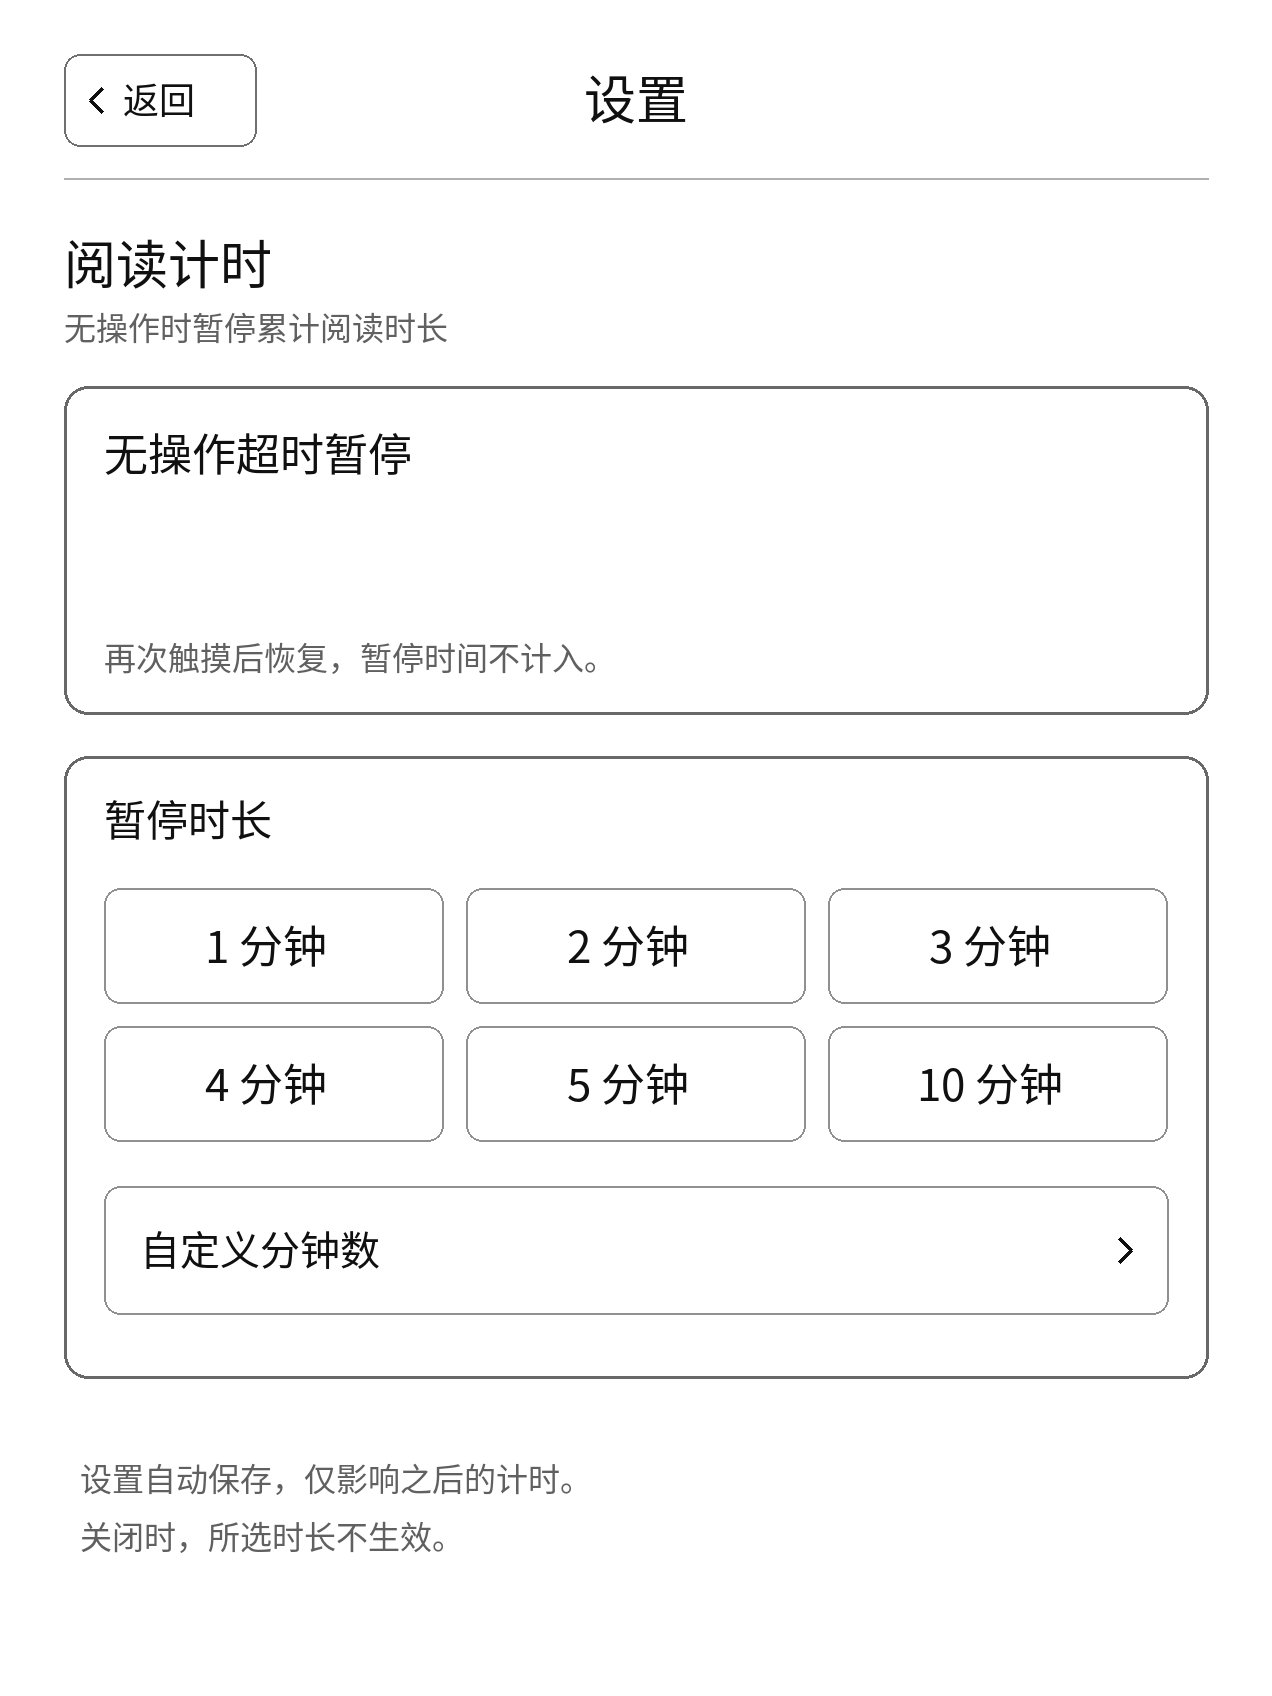
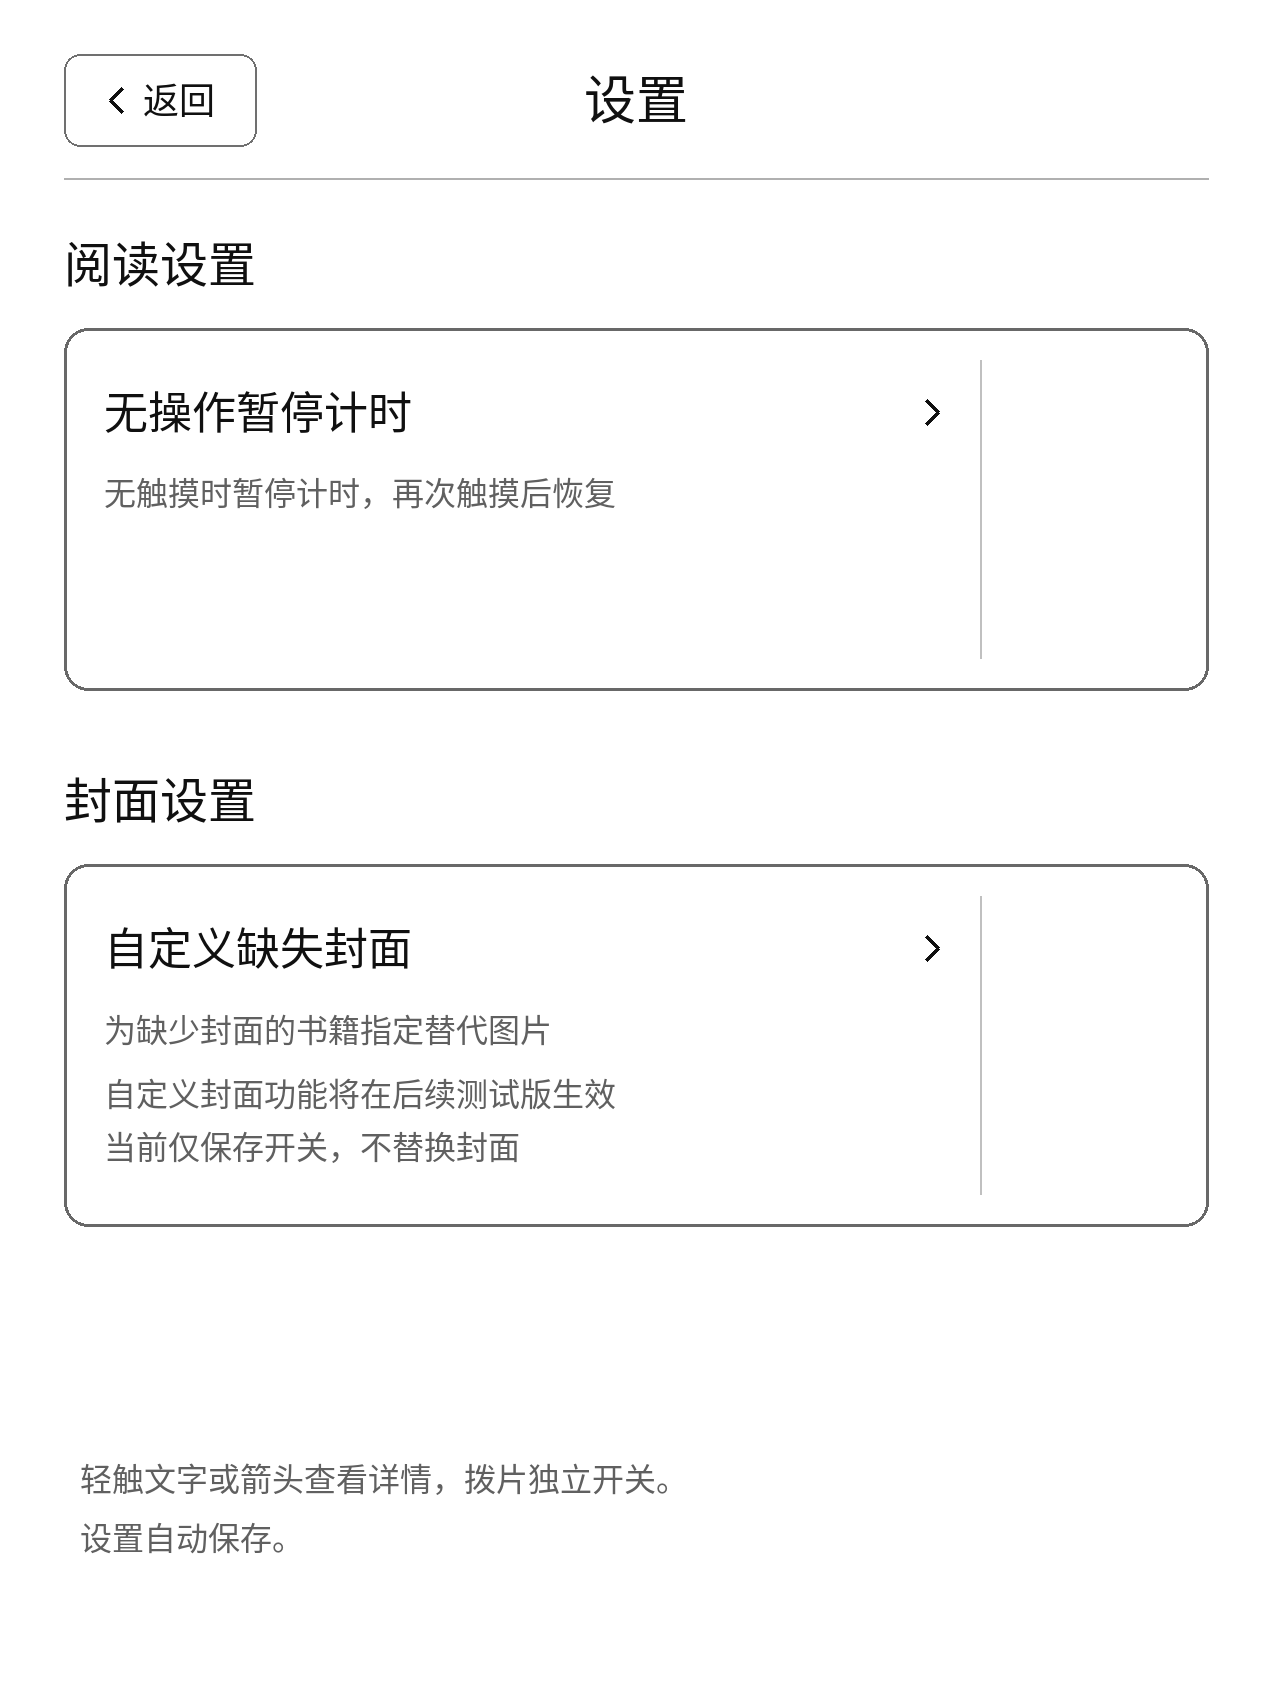
Redesign Standard settings hierarchy for Vera test6
Add independent timer and future-cover switches, nested settings navigation, and a cover placeholder page. Preserve existing timing controls and unknown configuration, including files without a trailing newline. Restore the calendar month title on return.

Validation: 35 offline checks passed, including 656 settings touch cases and nine install/upgrade safety scenarios. Standard ZIP SHA-256: a908cef14841766813267e19a739a46dc161dbb3b3859375b476dabe8d35fba1.

diff --git a/scripts/build_settings.py b/scripts/build_settings.py
@@ -1,4 +1,4 @@
-"""Build the B settings design with the project font; no device-side dependencies."""
+"""Build the settings hierarchy with the project font; no device dependencies."""
 from pathlib import Path
 from functools import lru_cache
 from PIL import Image, ImageDraw, ImageFont
@@ -35,8 +35,8 @@ def page(title):
     im = Image.new('L', (1272, 1696), PAPER)
     d = ImageDraw.Draw(im)
     d.rounded_rectangle((64, 54, 256, 146), 16, outline=112, width=2)
-    chevron(d, 96, 100, -1)
-    text(d, 123, 100, '返回', 36)
+    chevron(d, 116, 100, -1)
+    text(d, 143, 100, '返回', 36)
     text(d, 636, 100, title, 52, center=True)
     d.line((64, 178, 1208, 178), fill=176, width=2)
     return im, d
@@ -46,6 +46,43 @@ def build():
     out = PKG / 'ui-calendar'
     # settings-button.png is deliberately untouched: the approved homepage gear.
     im, d = page('设置')
+    for title, name, description, y in (
+        ('阅读设置', '无操作暂停计时', '无触摸时暂停计时，再次触摸后恢复', 328),
+        ('封面设置', '自定义缺失封面', '为缺少封面的书籍指定替代图片', 864),
+    ):
+        text(d, 64, y-64, title, 48)
+        d.rounded_rectangle((64, y, 1208, y+362), 24, outline=104, width=3)
+        text(d, 104, y+84, name, 44)
+        text(d, 104, y+166, description, 32, MUTED)
+        chevron(d, 932, y+84)
+        d.line((980, y+32, 980, y+330), fill=192, width=2)
+    text(d, 104, 1094, '自定义封面功能将在后续测试版生效', 32, MUTED)
+    text(d, 104, 1148, '当前仅保存开关，不替换封面', 32, MUTED)
+    text(d, 80, 1480, '轻触文字或箭头查看详情，拨片独立开关。', 32, MUTED)
+    text(d, 80, 1538, '设置自动保存。', 32, MUTED)
+    im.save(out / 'settings.png')
+
+    im, d = page('自定义缺失封面')
+    text(d, 80, 320, '自定义封面功能将在后续测试版生效', 34, MUTED)
+    for y, title, description, reserved in (
+        (378, '通用替代封面', '用于尚未指定图片的缺失封面书籍。', '后续测试版提供图片选择'),
+        (666, '单本书籍指定封面', '按书籍指定专属图片，保留原有封面。', '后续测试版提供书籍管理'),
+    ):
+        d.rounded_rectangle((64, y, 1208, y+232), 24, outline=144, width=2)
+        text(d, 104, y+56, title, 42)
+        text(d, 104, y+124, description, 32, MUTED)
+        text(d, 104, y+184, reserved, 32, MUTED)
+    d.rounded_rectangle((64, 954, 1208, 1340), 24, outline=144, width=2)
+    text(d, 104, 1010, '图片目录与使用说明', 42)
+    text(d, 104, 1080, '/mnt/us/reading-time/custom-covers/', 32)
+    text(d, 104, 1144, '预计支持 JPG、PNG，建议图片比例 2:3', 32, MUTED)
+    text(d, 104, 1204, '例如 400×600 或 600×900', 32, MUTED)
+    text(d, 104, 1274, '后续测试版提供文件扫描与重新扫描', 32, MUTED)
+    text(d, 80, 1456, 'test7 将接入扫描、缩略图浏览及图片关联。', 32, MUTED)
+    text(d, 80, 1516, '本版不读取图片，也不改变现有封面或缓存。', 32, MUTED)
+    im.save(out / 'settings_cover.png')
+
+    im, d = page('无操作暂停计时')
     text(d, 64, 264, '阅读计时', 52)
     text(d, 64, 328, '无操作时暂停累计阅读时长', 32, MUTED)
     d.rounded_rectangle((64, 386, 1208, 714), 24, outline=104, width=3)
@@ -68,7 +105,7 @@ def build():
     chevron(d, 1125, 1250)
     text(d, 80, 1480, '设置自动保存，仅影响之后的计时。', 32, MUTED)
     text(d, 80, 1538, '关闭时，所选时长不生效。', 32, MUTED)
-    im.save(out / 'settings.png')
+    im.save(out / 'settings_idle.png')
 
     for enabled in (0, 1):
         switch = Image.new('L', (152, 78), PAPER)

diff --git a/tests/validate_total_layout.py b/tests/validate_total_layout.py
@@ -26,7 +26,9 @@ def centered(image, box, white=False):
 
 
 # Preserve every other shipped payload byte against the accepted test3 source.
-allowed = {'阅读记录-optimized.sh', 'reading-insights-render.lua',
+allowed = {'reading-config.sh', 'reading-settings.sh', 'ui-calendar/settings.png',
+           'ui-calendar/settings_idle.png', 'ui-calendar/settings_cover.png',
+           'ui-calendar/settings_custom.png', '阅读记录-optimized.sh', 'reading-insights-render.lua',
            'reading-insights-touch-ui.lua', 'ui-calendar/total.png',
            'reading-power.sh', 'launch.sh', '阅读记录.sh', 'Install-Native-Reading-Time-Optimized.sh',
            'reading-insights-touch-preflight.sh', 'compat/migration.sh'}
@@ -37,13 +39,13 @@ for path in PKG.rglob('*'):
         '63e34dba:native-reading-time-package/'+path.relative_to(PKG).as_posix()], cwd=ROOT)
     actual = path.read_bytes()
     if path.name == 'Install-Native-Reading-Time-Optimized.sh':
-        actual = actual.replace(b'9.8.1-5.20-vera-test5', b'9.8.1-5.20-vera-test3')
+        actual = actual.replace(b'9.8.1-5.20-vera-test6', b'9.8.1-5.20-vera-test3')
     if path.suffix not in ('.png', '.pgm', '.otf'):
         # Account for Git's Windows checkout line-ending conversion.
         actual, previous = actual.replace(b'\r\n', b'\n'), previous.replace(b'\r\n', b'\n')
     assert actual == previous, path
 cleanup = ROOT/'v4/cleanup.sh'
-assert cleanup.read_bytes().replace(b'9.8.1-5.20-vera-test5', b'9.8.1-5.20-vera-test3').replace(b'reading-records-v4-install.sh', b'reading-records-9.8.1-install.sh') == subprocess.check_output(['git','show','63e34dba:v4/cleanup.sh'], cwd=ROOT)
+assert cleanup.read_bytes().replace(b'9.8.1-5.20-vera-test6', b'9.8.1-5.20-vera-test3').replace(b'reading-records-v4-install.sh', b'reading-records-9.8.1-install.sh') == subprocess.check_output(['git','show','63e34dba:v4/cleanup.sh'], cwd=ROOT)
 
 old_bg = subprocess.check_output(['git', 'show',
     '63e34dba:native-reading-time-package/ui-calendar/total.png'], cwd=ROOT)
@@ -58,6 +60,9 @@ viewer_path = 'native-reading-time-package/阅读记录-optimized.sh'
 before = subprocess.check_output(['git', 'show', 'f9cb13d9:'+viewer_path], cwd=ROOT).decode()
 after = (ROOT/viewer_path).read_text(encoding='utf-8')
 def preserved_shell(source):
+    # Full settings navigation redraws the calendar month title on return.
+    source = source.replace('perform_draw settings_change 1 1 0 0 1272 1696',
+                            'perform_draw settings_change 1 0 0 0 1272 1696')
     return (source[:source.index('\ndashboard_active=0;')] +
             source[source.index('\nperform_draw()'):source.index('\nrr_perf geometry_begin')] +
             source[source.index('    standard_touch_action_received\n'):])
@@ -68,7 +73,10 @@ after = (ROOT/touch_path).read_text(encoding='utf-8')
 def outside_total_touch(source):
     start = source.index('    if mode == "total" then')
     end = source.index('    elseif mode == "daily" then', start)
-    return source[:start] + source[end:]
+    prefix = source[:start]
+    a = prefix.index('local function settings_action(')
+    b = prefix.index('local function action_for_logical(', a)
+    return prefix[:a] + prefix[b:] + source[end:]
 assert outside_total_touch(before) == outside_total_touch(after)
 
 # Keep chart geometry intact while checking every selected/unselected control.

diff --git a/tests/validate_v4.py b/tests/validate_v4.py
@@ -117,7 +117,7 @@ def run(session,variant='standard',previous=None,mutation='',cleanup=False,legac
         assert visible_cleanups==[CLEAN],visible_cleanups
         if mutation!='unknown_alias':assert not (docs/'阅读记录.sh').exists()
         assert not (docs/'reading-records-uninstall.sh').exists() and not (docs/'安装好之后，确认无误了再点这个.sh').exists()
-        if previous in ('mixed','deleted-formal','V4','9.8.1-test2','9.8.1-test2-cleaned','9.8.1-test4','9.8.1-test4-cleaned'):
+        if previous in ('mixed','deleted-formal','V4','9.8.1-test2','9.8.1-test2-cleaned','9.8.1-test4','9.8.1-test4-cleaned','9.8.1-test5','9.8.1-test5-cleaned'):
             again=subprocess.run([SHELL,script.as_posix()],env=env,capture_output=True,timeout=130);assert again.returncode==0,again.stderr
             assert len(list(base.glob('.previous-install')))==1 and not list(base.glob('.v4-rollback.*'))
         if mutation=='scanner_failure':assert 'scanner_request=request_failed index_completion=unverified' in log
@@ -170,13 +170,16 @@ def main():
     if '--power-upgrade' in sys.argv:
         cases=[('9.8.1-test4','',True),('9.8.1-test4-cleaned','',True)]
         cases += [('9.8.1-test4',m,False) for m in ('core_failure','activation_failure','interrupted','ks_residue','wrong_device','busy_ui')]
+    if '--settings-upgrade' in sys.argv:
+        cases=[('9.8.1-test5','',True),('9.8.1-test5-cleaned','',True)]
+        cases += [('9.8.1-test5',m,False) for m in ('core_failure','activation_failure','interrupted','ks_residue','wrong_device','busy_ui')]
     if '--idle-upgrade' in sys.argv:
         cases=[('V4','',True)]
         cases += [('V4',m,False) for m in ('core_failure','activation_failure','interrupted','lost_service','stopped_service','ks_residue','wrong_device','orphan','duplicate','busy_ui')]
     for p,m,c in cases:
         with tempfile.TemporaryDirectory(prefix='standard-install-',dir=OUT) as name:results.append(run(Path(name),previous=p,mutation=m,cleanup=c))
         print(p or 'fresh',m or 'install + cleanup','PASS',flush=True)
-    for tag in (() if '--device-fix' in sys.argv or '--idle-upgrade' in sys.argv or '--smoke' in sys.argv or '--power-upgrade' in sys.argv else ('v9.7.4','v9.7.5-test.1','v9.7.5-compat-v2','v9.7.5-compat-v3')):
+    for tag in (() if '--device-fix' in sys.argv or '--idle-upgrade' in sys.argv or '--smoke' in sys.argv or '--power-upgrade' in sys.argv or '--settings-upgrade' in sys.argv else ('v9.7.4','v9.7.5-test.1','v9.7.5-compat-v2','v9.7.5-compat-v3')):
         with tempfile.TemporaryDirectory(prefix='standard-legacy-',dir=OUT) as name:results.append(run(Path(name),previous='V3',cleanup=True,legacy_tag=tag))
         print('legacy payload',tag,'PASS',flush=True)
     with tempfile.TemporaryDirectory(prefix='standard-unknown-',dir=OUT) as name:results.append(run(Path(name),previous='V4' if '--idle-upgrade' in sys.argv else 'V3',cleanup=True,cleanup_unknown=True))

diff --git a/tests/validate_ui.py b/tests/validate_ui.py
@@ -91,7 +91,9 @@ assert stable_payload_changes==[
     'native-reading-time-package/ui-calendar/settings-switch-0.png',
     'native-reading-time-package/ui-calendar/settings-switch-1.png',
     'native-reading-time-package/ui-calendar/settings.png',
+    'native-reading-time-package/ui-calendar/settings_cover.png',
     'native-reading-time-package/ui-calendar/settings_custom.png',
+    'native-reading-time-package/ui-calendar/settings_idle.png',
     'native-reading-time-package/ui-calendar/total.png',
     'native-reading-time-package/ui-calendar/week_trend.png',
     'native-reading-time-package/uninstall.sh',
@@ -524,6 +526,31 @@ assert daily_block.count('image "$SESSION_DIR/daily-calendar.pgm"')==1 and 'refr
 assert 'month_prev) shift_month -1; perform_draw month_previous 0 1 55 320 1162 1308;;' in viewer
 assert 'day_*) new_day=' in viewer and 'perform_draw date_select 0 0 55 460 1162 1168' in viewer
 record('heatmap isolation and refresh','Daemon and calendar calculations remain byte-identical to v9.6.10; all-time aggregation and cover fallback do not alter heatmap inputs. The calendar is composed offscreen once, published once, then refreshed once; 5.18.x startup omits forced flashing.')
+
+# Exercise the actual settings dispatcher and full daily redraw. A labels=0
+# return used to clear the month title when the background was repainted.
+settings_dispatch=next(line for line in viewer.splitlines() if line.strip().startswith('settings_*)'))
+settings_dispatch=settings_dispatch.split(') ',1)[1].removesuffix(';;')
+render('settings-return-daily','daily','''
+. native-reading-time-package/reading-config.sh
+. native-reading-time-package/reading-settings.sh
+BASE="$SESSION_DIR/settings-state"
+UI_DIR=native-reading-time-package/ui-calendar
+rr_settings_gear() { :; }
+metric_begin() { :; }; metric_end() { :; }; refresh_region() { :; }
+fallback_to_legacy() { exit 99; }
+mode=daily; daily_y=2026; daily_m=9; selected_date=2026-09-02; detail_page=1
+book_filter=year; book_page=2; view_year=2025; week_offset=-2
+for action in settings_open settings_idle settings_custom settings_cancel settings_home settings_cover settings_home; do
+    rr_settings_action
+done
+action=settings_back
+'''+settings_dispatch+'''
+test "$mode $daily_y $daily_m $selected_date $detail_page $book_filter $book_page $view_year $week_offset" = 'daily 2026 9 2026-09-02 1 year 2 2025 -2' || exit 98
+''')
+draw=(session/'draw.tsv').read_text(encoding='utf-8')
+assert 'daily-month.pgm\t450\t320\t372\t80' in draw
+record('settings navigation return','The production dispatcher restores the selected calendar date and month title after both detail pages and keyboard cancellation, preserving pagination and other statistics filters.')
 
 changes=[]
 for file in sorted(PKG.rglob('*')):

diff --git a/scripts/build_v4.py b/scripts/build_v4.py
@@ -14,10 +14,10 @@ from package_release import FILES as STANDARD_FILES
 
 
 ROOT = Path(__file__).resolve().parents[1]
-PRODUCT_VERSION = "9.8.1-5.20-vera-test5"
+PRODUCT_VERSION = "9.8.1-5.20-vera-test6"
 # Product/UI revision only: keep the verified daemon/helper runtime paths.
 RUNTIME_VERSION = "9.8.1-5.20-vera-test1"
-DIST = ROOT / "build/standard-9.8.1-test5"
+DIST = ROOT / "build/standard-9.8.1-test6"
 SIMPLE_ARCHIVE = DIST / f"{PRODUCT_VERSION}.zip"
 BOOT_NAME = "reading-records-v4-install.sh"
 TAR_NAME = "阅读记录安装数据.tar"
@@ -81,7 +81,7 @@ exit 127
     result["v4/cleanup.sh"] = (ROOT / "v4/cleanup.sh").read_bytes()
     result["native-reading-time-package/migration-manifest.tsv"] = ownership_manifest(result, posix_cksum, make_tar)
     build_id = sha(b"".join(name.encode() + b"\0" + sha(raw).encode() for name, raw in sorted(result.items())))[:20]
-    result["BUILD-INFO"] = f"product_version={PRODUCT_VERSION}\nvariant=standard\nbuild_id={build_id}\nsource_baseline=f9cb13d9db5598a3b82e390ed33dabefd8a4c593\n".encode()
+    result["BUILD-INFO"] = f"product_version={PRODUCT_VERSION}\nvariant=standard\nbuild_id={build_id}\nsource_baseline=92cd750\n".encode()
     entries = [{"path": name, "size": len(raw), "sha256": sha(raw)} for name, raw in sorted(result.items())]
     manifest_name = "PACKAGE-MANIFEST.json" if variant == "standard" else "PACKAGE-MANIFEST-KS.json"
     result[manifest_name] = (json.dumps({"format": 4, "installer_format": "two-file-1", "product_version": PRODUCT_VERSION, "variant": variant, "files": entries}, ensure_ascii=False, indent=2) + "\n").encode()

diff --git a/tests/validate_idle_pause.py b/tests/validate_idle_pause.py
@@ -34,7 +34,7 @@ with tempfile.TemporaryDirectory(prefix='idle-') as tmp:
     for n in ['', '0','01','-1','1.5','1441','99999999999999','$(touch sentinel)']:
         assert shell(head+"rr_minutes_valid '"+n+"'; echo $?").strip()=='1';check()
     assert shell(head+'rr_config_read; mode=books; book_filter=year; book_page=3; action=settings_open; rr_settings_action; action=settings_toggle; rr_settings_action; action=settings_back; rr_settings_action; echo "$mode $book_filter $book_page"')=='books year 3\n';check()
-    assert shell(head+'rr_config_read; mode=settings; action=settings_custom; rr_settings_action; action=settings_digit_1; rr_settings_action; action=settings_digit_7; rr_settings_action; action=settings_save; rr_settings_action; rr_config_read; echo "$mode $idle_minutes"').strip()=='settings 17';check()
+    assert shell(head+'rr_config_read; mode=settings_idle; action=settings_custom; rr_settings_action; action=settings_digit_1; rr_settings_action; action=settings_digit_7; rr_settings_action; action=settings_save; rr_settings_action; rr_config_read; echo "$mode $idle_minutes"').strip()=='settings_idle 17';check()
     assert shell(head+'mode=settings_custom; settings_digits=0; action=settings_save; rr_settings_action; echo "$mode $settings_error"').startswith('settings_custom 请输入');check()
 
     saved=(base/'user.conf').read_bytes(); (base/'user.conf').unlink(); (base/'user.conf').mkdir()

diff --git a/tests/validate_power_exit.py b/tests/validate_power_exit.py
@@ -136,7 +136,7 @@ exit 0
             expected = 91 if stage == 'subscription_failure' else 90 if renderer == 'legacy' and event != 'manual' else 0
             log = (base/'launch-last.log').read_text(errors='replace') if command == launcher else str(output)
             assert process.returncode == expected, (renderer, event, stage, process.returncode, log, output)
-            calls = trace.read_text() if trace.exists() else ''
+            calls = trace.read_text(encoding='utf-8') if trace.exists() else ''
             assert 'preventScreenSaver' not in calls and 'powerButton' not in calls and 'toggleSuspend' not in calls, calls
             if event == 'manual' and stage != 'exit_race': assert 'KPP_LIBRARY' in calls, calls
             elif stage != 'subscription_failure': assert 'KPP_LIBRARY' not in calls, calls

diff --git a/tests/validate_startup_performance.py b/tests/validate_startup_performance.py
@@ -23,8 +23,8 @@ for chain in (('current',) if '--current-only' in sys.argv else ('normal-5.19', 
         pkg=ROOT/'native-reading-time-package'
         for folder in ('ui','ui-calendar','render-assets'):
             shutil.copytree(pkg/folder,release/folder,dirs_exist_ok=True)
-        from runtime_fixture import install_power_fixture
-        install_power_fixture(release, root/'mockbin')
+        # setup() already installed the blocking power fixture. Recreating its
+        # MSYS FIFO fails on Windows, where Path.exists() cannot see that FIFO.
         for p in pkg.glob('*.lua'):shutil.copy2(p,release/'bin'/p.name)
         for p in pkg.glob('*.awk'):shutil.copy2(p,release/'bin'/p.name)
         shutil.copy2(pkg/'reading-insights-touch-preflight.sh',release/'bin/reading-insights-touch-preflight.sh')

diff --git a/scripts/validate_idle_release.py b/scripts/validate_idle_release.py
@@ -54,7 +54,7 @@ devices=ROOT/'tests/validate_device_variant.py'
 # package-consuming check sees the same checksum. Delivery remains gated on
 # all validation phases, including the final whole startup chain.
 phases=[([ROOT/'scripts/build_v4.py'],1),
-        ([(ROOT/'tests/validate_v4.py',['--idle-upgrade']),timer,(devices,['--library-only']),
+        ([(ROOT/'tests/validate_v4.py',['--settings-upgrade']),timer,(devices,['--library-only']),
           *[c for c in PRE+POST if c not in (timer,devices)]],3),
         ([(ROOT/'tests/validate_startup_performance.py',['--current-only'])],1)]
 if PRIVATE:

diff --git a/tests/validate_cleanup.py b/tests/validate_cleanup.py
@@ -17,7 +17,10 @@ import zipfile
 
 
 ROOT = Path(__file__).resolve().parents[1]
+# Test fixtures can live outside dist, which is also read by the package builder.
 ARCHIVE = ROOT / "dist/kindle-reading-records-v9.7.5-compat-v3-cover-test.zip"
+if not ARCHIVE.exists():
+    ARCHIVE = ROOT / "build/historical-artifacts" / ARCHIVE.name
 OUT = ROOT / "build/validation"
 OUT.mkdir(parents=True, exist_ok=True)
 SHELL = shutil.which("sh") or "C:/Program Files/Git/usr/bin/sh.exe"
